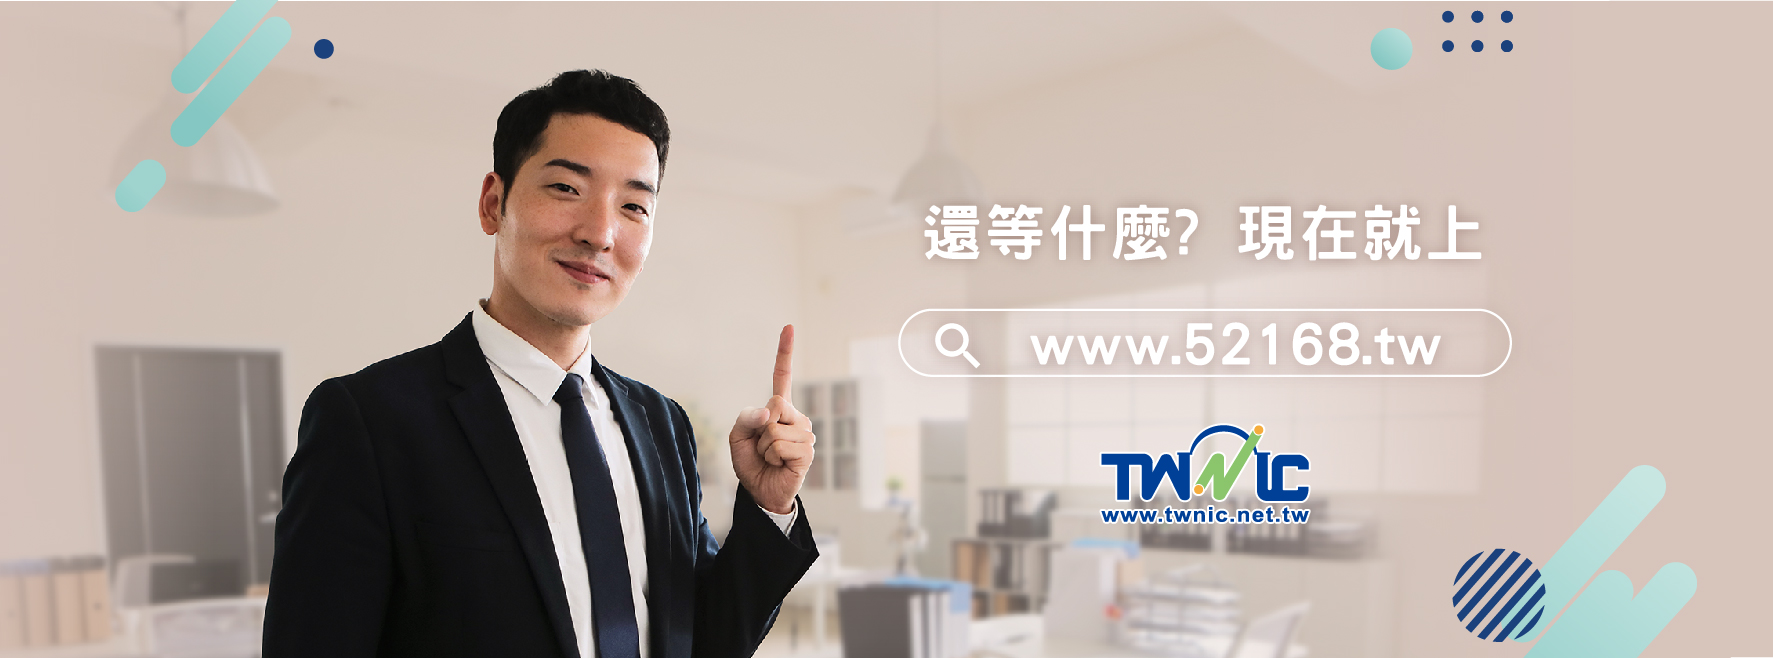
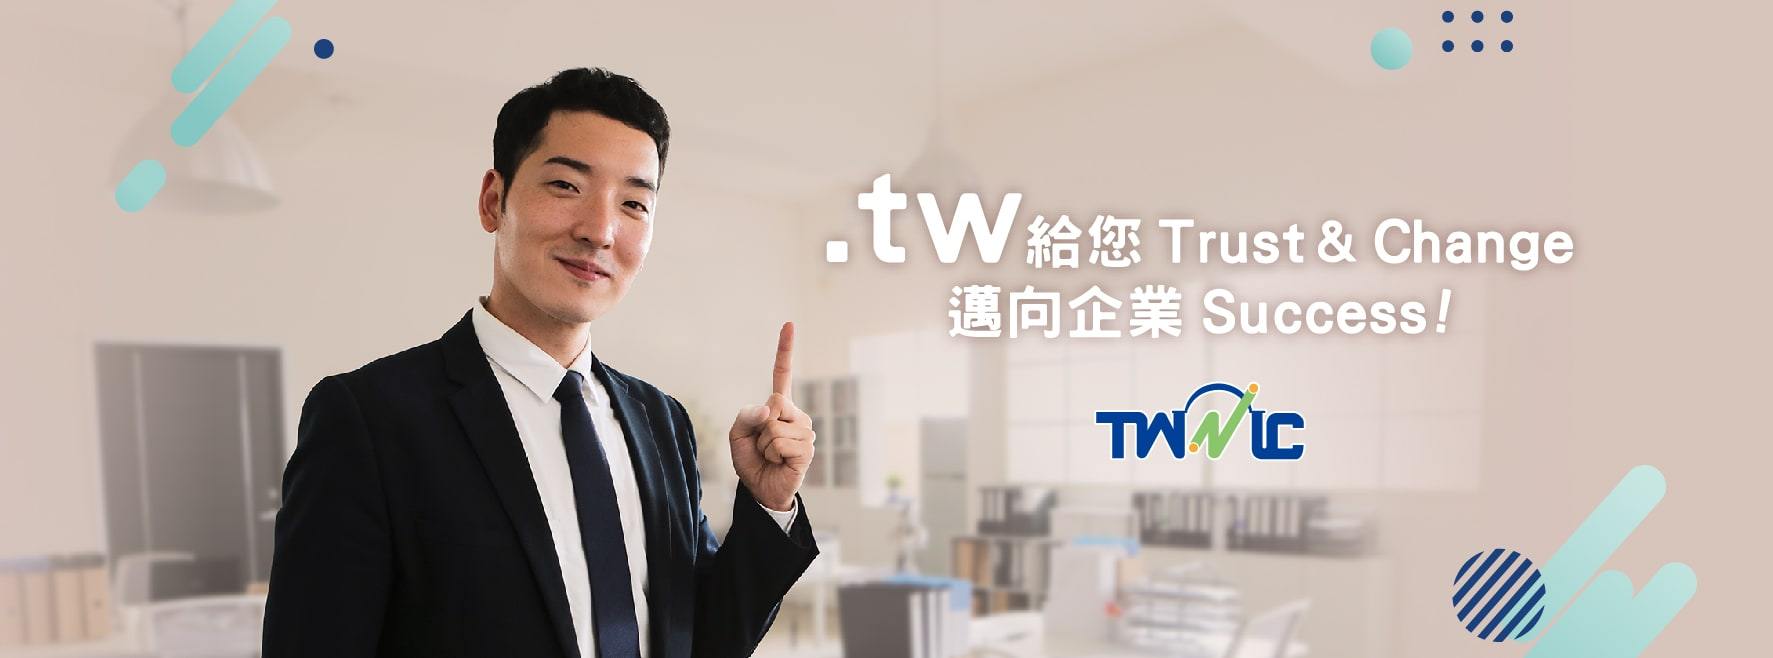
Change images
Change background images, banners and css style

diff --git a/css/style.css b/css/style.css
@@ -7,6 +7,9 @@ a:hover{
 	background-color: #fff;
 }
 
+.tw-logo {
+	width: 450px;
+}
 .head-text a {
 	margin-left: 20px;
 	font-size: 18px;
@@ -36,6 +39,7 @@ a:hover{
 .head-fbyout img {
 	margin: 0 10px;
 }
+
 
 .swiper-container {
 	width: 100%;
@@ -95,7 +99,7 @@ a:hover{
 .ac-btn {
 	width: 200px;
 	height: 50px;
-	background-color: #cfcfcf;
+	background-color: #d8d8d8;
 	border: solid 2px #000000;
 	font-size: 18px;
 	font-weight: 600;
@@ -230,7 +234,7 @@ a:hover{
 }
 
 .copy img {
-	width: 300px;
+	width: 350px;
 	margin-bottom: 25px;
 }
 
